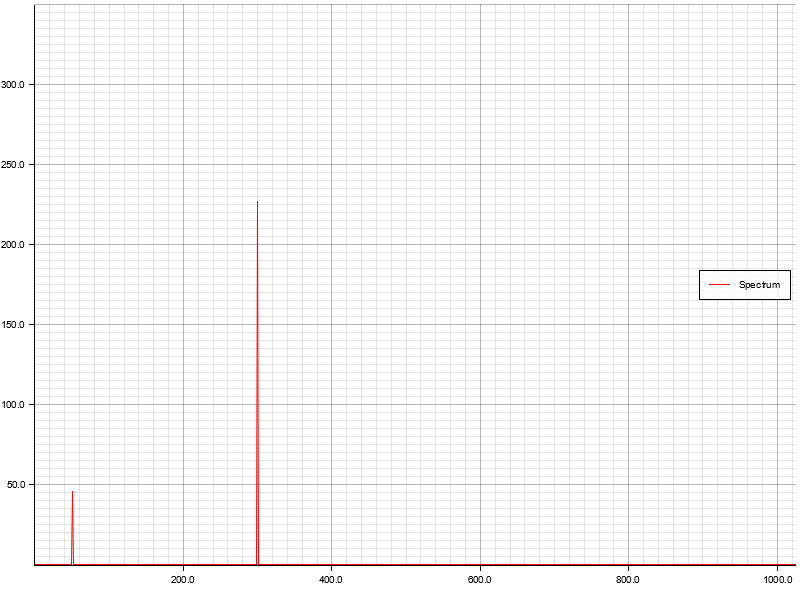
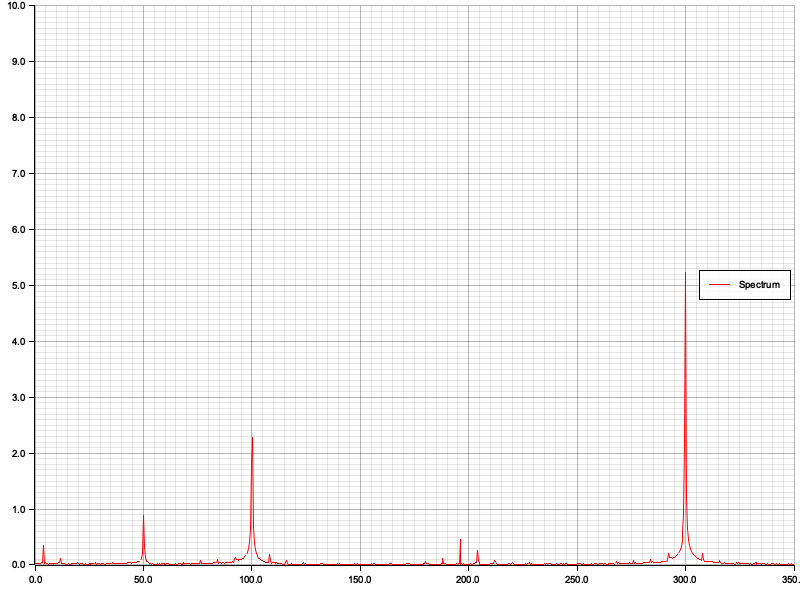
spectrum example using rustfft

Changed region(s): [[0.0, 0.0, 1.0, 0.99]]

diff --git a/examples/spectrum.rs b/examples/spectrum.rs
@@ -1,27 +1,39 @@
-use std::path::Path;
-
-use libm::sqrtf;
 use plotters::prelude::*;
-use spectrum_analyzer::{samples_fft_to_spectrum, FrequencyLimit};
-use wavegen::{sine, Waveform};
+use rustfft::{num_complex::Complex, FftPlanner};
+use std::path::Path;
+use wavegen::{sine, square, wf};
+
+const F_MAX: f32 = 350.0;
+const SAMPLE_RATE: f32 = F_MAX * 2.56;
+const N_SAMPLES: usize = 2048;
+const SPECTRUM_RESOLUTION: f32 = SAMPLE_RATE / N_SAMPLES as f32;
 
 fn main() -> Result<(), Box<dyn std::error::Error>> {
-    let sample_rate = 2560.0;
-    let n = 2048;
+    // Define the waveform to perform FFT on
+    let wf = wf!(
+        f32,
+        SAMPLE_RATE,
+        sine!(300., 10.),
+        sine!(50., 2.),
+        square!(100., 5.)
+    );
+    let samples = wf.into_iter().take(N_SAMPLES);
 
-    let samples = Waveform::<f32>::with_components(sample_rate, vec![sine!(300, 10), sine!(50, 2)])
-        .into_iter()
-        .take(n)
-        .collect::<Vec<f32>>();
+    // Perform FFT
+    let mut planner = FftPlanner::<f32>::new();
+    let fft = planner.plan_fft_forward(N_SAMPLES);
+    let mut buffer: Vec<_> = samples.into_iter().map(|s| Complex::new(s, 0.)).collect();
+    fft.process(&mut buffer);
 
-    let spectrum = samples_fft_to_spectrum(
-            &samples,
-            sample_rate as u32,
-            FrequencyLimit::All,
-            None,
-        ).unwrap();
-
-    draw("spectrum.png", "Spectrum", spectrum.data().iter().map(|(f, a)| (f.val(), a.val() * (1.0 / sqrtf(n as f32)))))?;
+    draw(
+        "spectrum.png",
+        "Spectrum",
+        buffer
+            .into_iter()
+            .enumerate()
+            .map(|(i, c)| (i as f32 * SPECTRUM_RESOLUTION, c.norm() / N_SAMPLES as f32))
+            .take_while(|(f, _)| *f < F_MAX),
+    )?;
 
     Ok(())
 }
@@ -39,19 +51,19 @@ fn draw<I: IntoIterator<Item = (f32, f32)>, P: AsRef<Path>>(
         .margin(5)
         .x_label_area_size(30)
         .y_label_area_size(30)
-        .build_cartesian_2d(-0f32..1024f32, -0f32..350f32)?;
+        .build_cartesian_2d(-0f32..F_MAX, -0f32..10f32)?;
 
     chart.configure_mesh().draw()?;
 
     chart
-        .draw_series(LineSeries::new(iter, &RED))?
+        .draw_series(LineSeries::new(iter, RED))?
         .label(label)
-        .legend(|(x, y)| PathElement::new(vec![(x, y), (x + 20, y)], &RED));
+        .legend(|(x, y)| PathElement::new(vec![(x, y), (x + 20, y)], RED));
 
     chart
         .configure_series_labels()
-        .background_style(&WHITE.mix(0.8))
-        .border_style(&BLACK)
+        .background_style(WHITE.mix(0.8))
+        .border_style(BLACK)
         .draw()?;
 
     Ok(())
